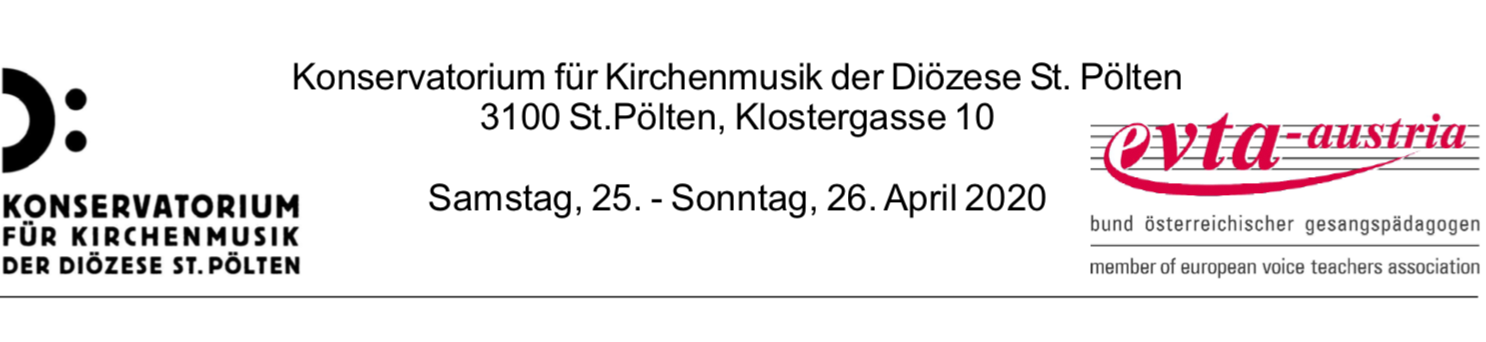
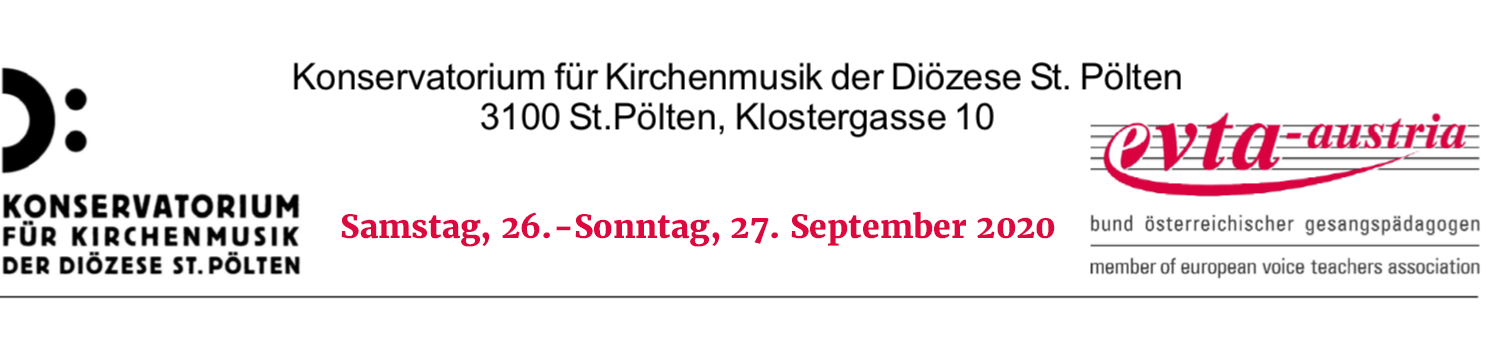
Verschiebung Jahreskongress

Changed region(s): [[0.2167, 0.5263, 0.712, 0.731]]

diff --git a/aktuelles/index.html b/aktuelles/index.html
@@ -2,7 +2,7 @@
 layout: page 
 title: Jahreskongress &amp; 20. Hauptversammlung
 kicker: Musica Sacra im Spiegel der Gesangspädagogik
-description: "Herzliche Einladung zum Jahreskongress &amp; der 20. Hauptversammlung von EVTA-Austria, am Samstag 25. und Sonntag 26. April 2020 in Zusammenarbeit mit dem Konservatorium für Kirchenmusik der Diözese St. Pölten."
+description: "Herzliche Einladung zum Jahreskongress &amp; der 20. Hauptversammlung von EVTA-Austria, am Samstag 26. und Sonntag 27. September 2020 in Zusammenarbeit mit dem Konservatorium für Kirchenmusik der Diözese St. Pölten."
 breadcrumb: Veranstaltungen
 ---
 <img src="genter-altar-van-eyck.jpg" alt="Jahreskongress der EVTA-Austria 25.-26. April 2020">
@@ -10,7 +10,7 @@ breadcrumb: Veranstaltungen
 <table class="program">
   <tr>
     <td colspan="2">
-      <strong>Samstag, 25. April 2020, 10 - 19 Uhr</strong>
+      <strong>Samstag, 26. September 2020, 10 - 19 Uhr</strong>
     </td>
   </tr>
   <tr>
@@ -42,7 +42,7 @@ breadcrumb: Veranstaltungen
   </tr>
   <tr>
     <td colspan="2">
-      Sonntag, 26. April 2020, 10:30 Uhr
+      Sonntag, 27. September 2020, 10:30 Uhr
     </td>
   </tr>  
   <tr>
